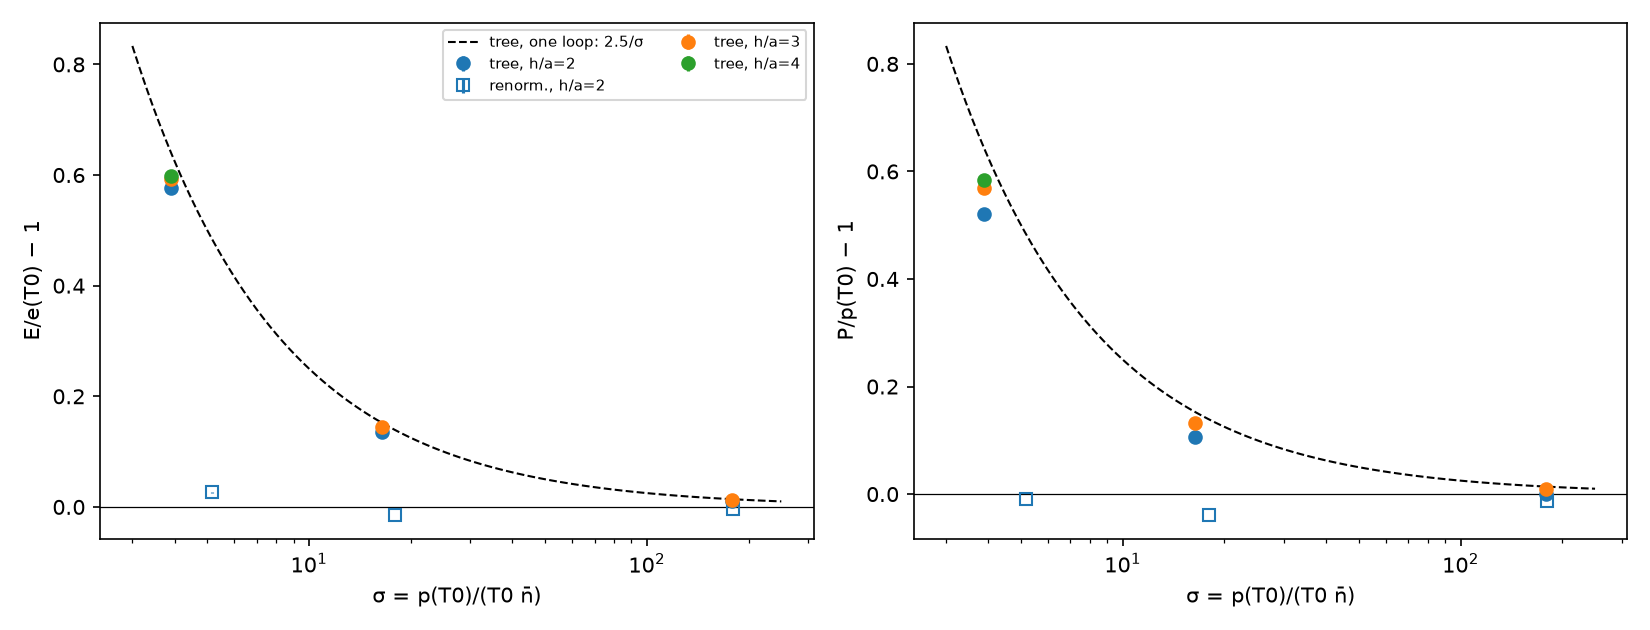
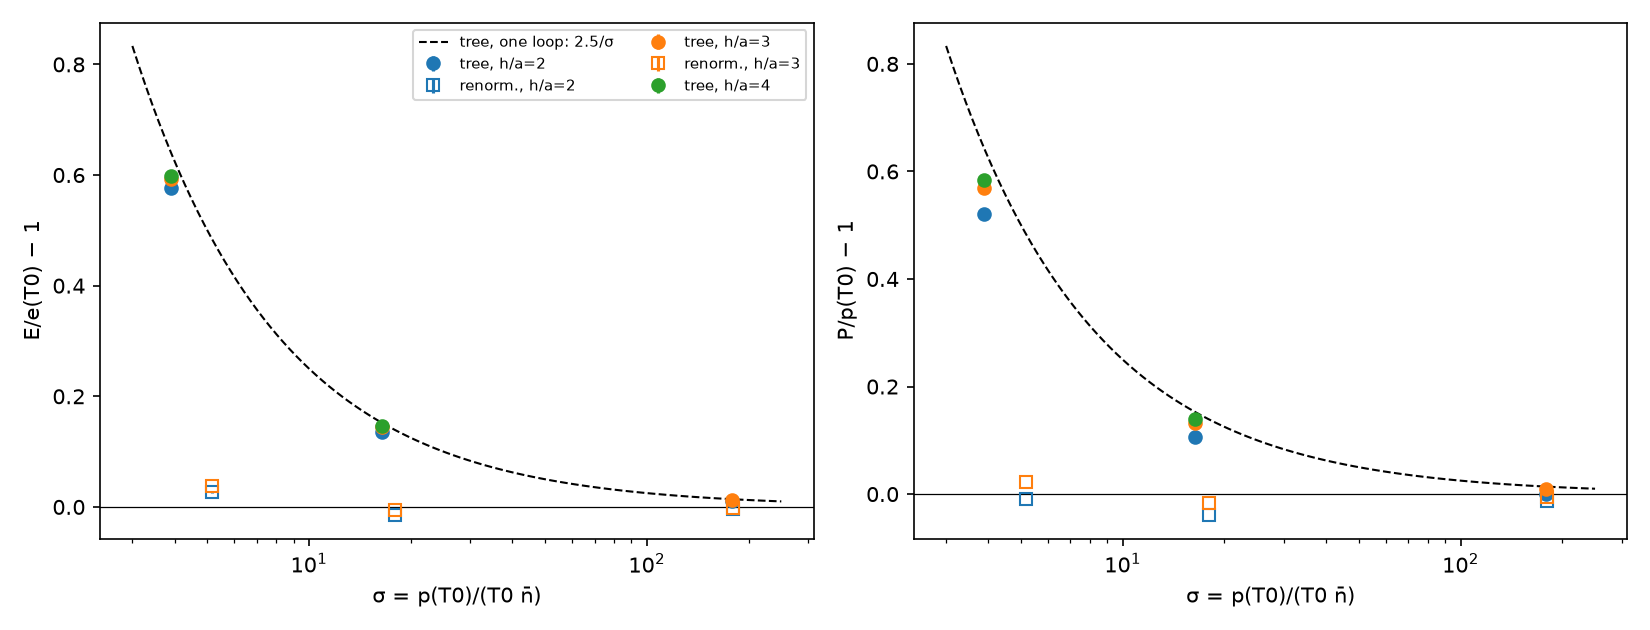
gravity.tex Results: S(k) in the L = 0.9 boxes at h/a = 2 against Ornstein-Zernike with dB from the positions; eos_measure.py: S(k) by shells with the OZ curves

Changed region(s): [[0.2473, 0.0603, 0.4945, 0.1508], [0.7109, 0.6635, 0.7418, 0.6937], [0.2164, 0.6635, 0.2473, 0.6937]]

diff --git a/docs/gravity.tex b/docs/gravity.tex
@@ -398,11 +398,49 @@ finite differences from the runs at $s_a\times0.9$, $1.1$ (when available).  Das
 \end{figure}
 
 \begin{figure}[h]
-\includegraphics[width=0.48\textwidth]{figs/eos_trace.png}\hfill
-\includegraphics[width=0.48\textwidth]{figs/eos_Sk.png}
-\caption{Left: the trace times the number of neighbours, $\bar nh^2(\pr_{\rm model}-E/2)/\bar nT$, which collapses the correction of the positions across $h/a$.
-Right: $S(k)$ in the $L=0.9$ boxes, tree level against renormalized.  (Partial; empty until those runs finish.)}
-\label{fig:traceSk}
+\centering
+\includegraphics[width=0.55\textwidth]{figs/eos_trace.png}
+\caption{The trace times the number of neighbours, $\bar nh^2(\pr_{\rm model}-E/2)/\bar nT$, which collapses the correction of the positions across $h/a$.  (Partial.)}
+\label{fig:trace}
+\end{figure}
+
+\paragraph{The structure factor.}  In the boxes $L=0.9=18h$ at $h/a=2$ ($N=1512$, eight seeds each), $S(k)$ of the positions, averaged over shells of $|\bm k|$, against
+the Ornstein--Zernike form of \texttt{partition\_v2.tex},
+\st
+S(k)\simeq\frac1{\klab+\delta\klab+\sigma_{\rm p}\mu_2k^2/2},\qquad \mu_2=\tfrac59h^2\ \ \text{(Wendland C2)},
+\label{SkOZ}
+\stp
+with $\klab=5/2$ at tree level and $0$ renormalized, and $\delta\klab$ the bulk modulus supplied by the positions ($0.36$ at $\sigma_{\rm p}=16.4$, $0.95$ at $179$,
+\texttt{partition\_v2.tex}): no free parameter.
+\begin{center}
+\begin{tabular}{lccccc}
+\toprule
+ & $\sigma_{\rm p}$ & $S(0)$ predicted & $kh=0.35$ & $kh=0.49$ & $kh=0.70$ \\
+\midrule
+tree, $s_a=54$ & 16.4 & 0.35 & $0.316\pm0.012$ (0.293) & $0.271\pm0.014$ (0.253) & $0.209\pm0.005$ (0.196) \\
+renormalized, $s_a=54$ & 18.0 & 2.6 & $1.05\pm0.04$ (1.00) & $0.67\pm0.04$ (0.63) & $0.390\pm0.013$ (0.353) \\
+tree, $s_a=541$ & 179 & 0.29 & $0.101\pm0.006$ (0.105) & $0.066\pm0.004$ (0.065) & $0.040\pm0.003$ (0.036) \\
+renormalized, $s_a=541$ & 180 & 1.05 & $0.123\pm0.010$ (0.141) & $0.085\pm0.006$ (0.077) & $0.044\pm0.002$ (0.039) \\
+\bottomrule
+\end{tabular}
+\end{center}
+(in brackets, \Eq{SkOZ}).
+\begin{itemize}
+\item At $s_a=54$ the renormalized $S(k)$ rises at small $k$ as predicted: three times the tree-level value at $kh=0.35$, on the curve \Eq{SkOZ} with
+  $\klab=\delta\klab$ to $5\%$.  The labels of the renormalized Hamiltonian are neutral, and the positions are held at long wavelength only by the pressure through
+  the kernel and by $\delta\klab$; the correlation length is $\xi=3.6h$ against $1.3h$ at tree level.
+\item At $s_a=541$ the two Hamiltonians differ only below $kh\approx0.3$ ($\xi=7.3h$ against $3.8h$), which this box ($kh_{\rm min}=0.35$) does not reach; both agree
+  with \Eq{SkOZ} at the $k$ it has.  To see $S(0)\to1/\delta\klab\approx1$ needs $kh\lesssim0.15$, a box $L\gtrsim40h$.
+\item The tree-level $S(k)$ is below $1$ everywhere, $S(0)=1/(\klab+\delta\klab)$: the counting term holds the particles at the preferred density.
+\item Above $kh\approx0.8$ the data lie above \Eq{SkOZ} by $10$--$30\%$, as expected of a small-$k$ form; the full $S(k)=1/(1+A(k))$ is not compared here.
+\end{itemize}
+
+\begin{figure}[h]
+\includegraphics[width=\textwidth]{figs/eos_Sk.png}
+\caption{$S(k)$ of the positions in the boxes $L=0.9$, averaged over shells of $|\bm k|$; filled, tree level; open, renormalized.  Lines: Ornstein--Zernike,
+\Eq{SkOZ}, with $\delta\klab$ from \texttt{partition\_v2.tex} (solid, tree level; dashed, renormalized).  Left $s_a=54$, right $s_a=541$; $h/a=2$ (the $h/a=3$ boxes are
+still running).}
+\label{fig:Sk}
 \end{figure}
 
 %=============================================================================

diff --git a/examples/eos_measure.py b/examples/eos_measure.py
@@ -143,13 +143,28 @@ for kind, mk in (("tree", "D"), ("ren", "d")):
 ax[0].legend(fontsize=7, ncol=2)
 fig.tight_layout(); fig.savefig(os.path.join(FIG, "eos_derivs.png"), dpi=150)
 
-# 4. S(k) in the large boxes
-fig, ax = plt.subplots(figsize=(6, 4.2))
-for kind, ls in (("tree", "-"), ("ren", "--")):
-    for name, v in sel(kind, big=True):
-        o = np.argsort(v["kh"])
-        ax.plot(v["kh"][o], v["Sk"][o], ls, marker=".", label=f"{name.replace('eos_', '')}")
-ax.set_yscale("log"); ax.set_xlabel("kh"); ax.set_ylabel("S(k)"); ax.legend(fontsize=7)
+# 4. S(k) in the large boxes, averaged over shells of |k|, against Ornstein-Zernike (docs/partition_v2.tex, Eq. OZ):
+#    S(k) = 1/(B + sigma mu2 k^2/2), mu2 = 5h^2/9 (Wendland C2, support 2h), B = B_label + dB; B_label = 5/2 at tree level, 0
+#    renormalized; dB from the positions, the table of partition_v2.tex at h/a = 2 (n h^2 = 4.62) scaled by 4.62/(n h^2).
+MU2 = 5 / 9
+def dB(sig, nh2):
+    return np.interp(np.log(sig), np.log([3.89, 16.4, 179.0]), [0.21, 0.36, 0.95]) * 4.62 / nh2
+fig, axs = plt.subplots(1, 2, figsize=(11, 4.2), sharey=True)
+kk = np.linspace(0.05, 1.6, 200)
+for ax, sa in zip(axs, ("54", "541")):
+    for kind, mk in (("tree", "o"), ("ren", "s")):
+        for name, v in sel(kind, big=True):
+            m = pat.match(name)
+            if m.group(2) != sa:
+                continue
+            ha = int(m.group(3)); c = cols[ha]
+            kr = np.round(v["kh"], 2); sh = np.unique(kr); sh = sh[sh <= 1.6]
+            ax.plot(sh, [v["Sk"][kr == q].mean() for q in sh], mk, color=c, mfc=c if kind == "tree" else "none", ms=5,
+                    label=f"{'tree' if kind == 'tree' else 'renorm.'}, h/a={ha}, σ={v['sigma']:.3g}")
+            B = (2.5 if kind == "tree" else 0.0) + dB(v["sigma"], v["nh2"])
+            ax.plot(kk, 1 / (B + v["sigma"] * MU2 * kk**2 / 2), "-" if kind == "tree" else "--", color=c, lw=1)
+    ax.set_yscale("log"); ax.set_xlabel("kh"); ax.set_title(f"s_a = {sa}"); ax.legend(fontsize=7)
+axs[0].set_ylabel("S(k)")
 fig.tight_layout(); fig.savefig(os.path.join(FIG, "eos_Sk.png"), dpi=150)
 
 # 5. the table
